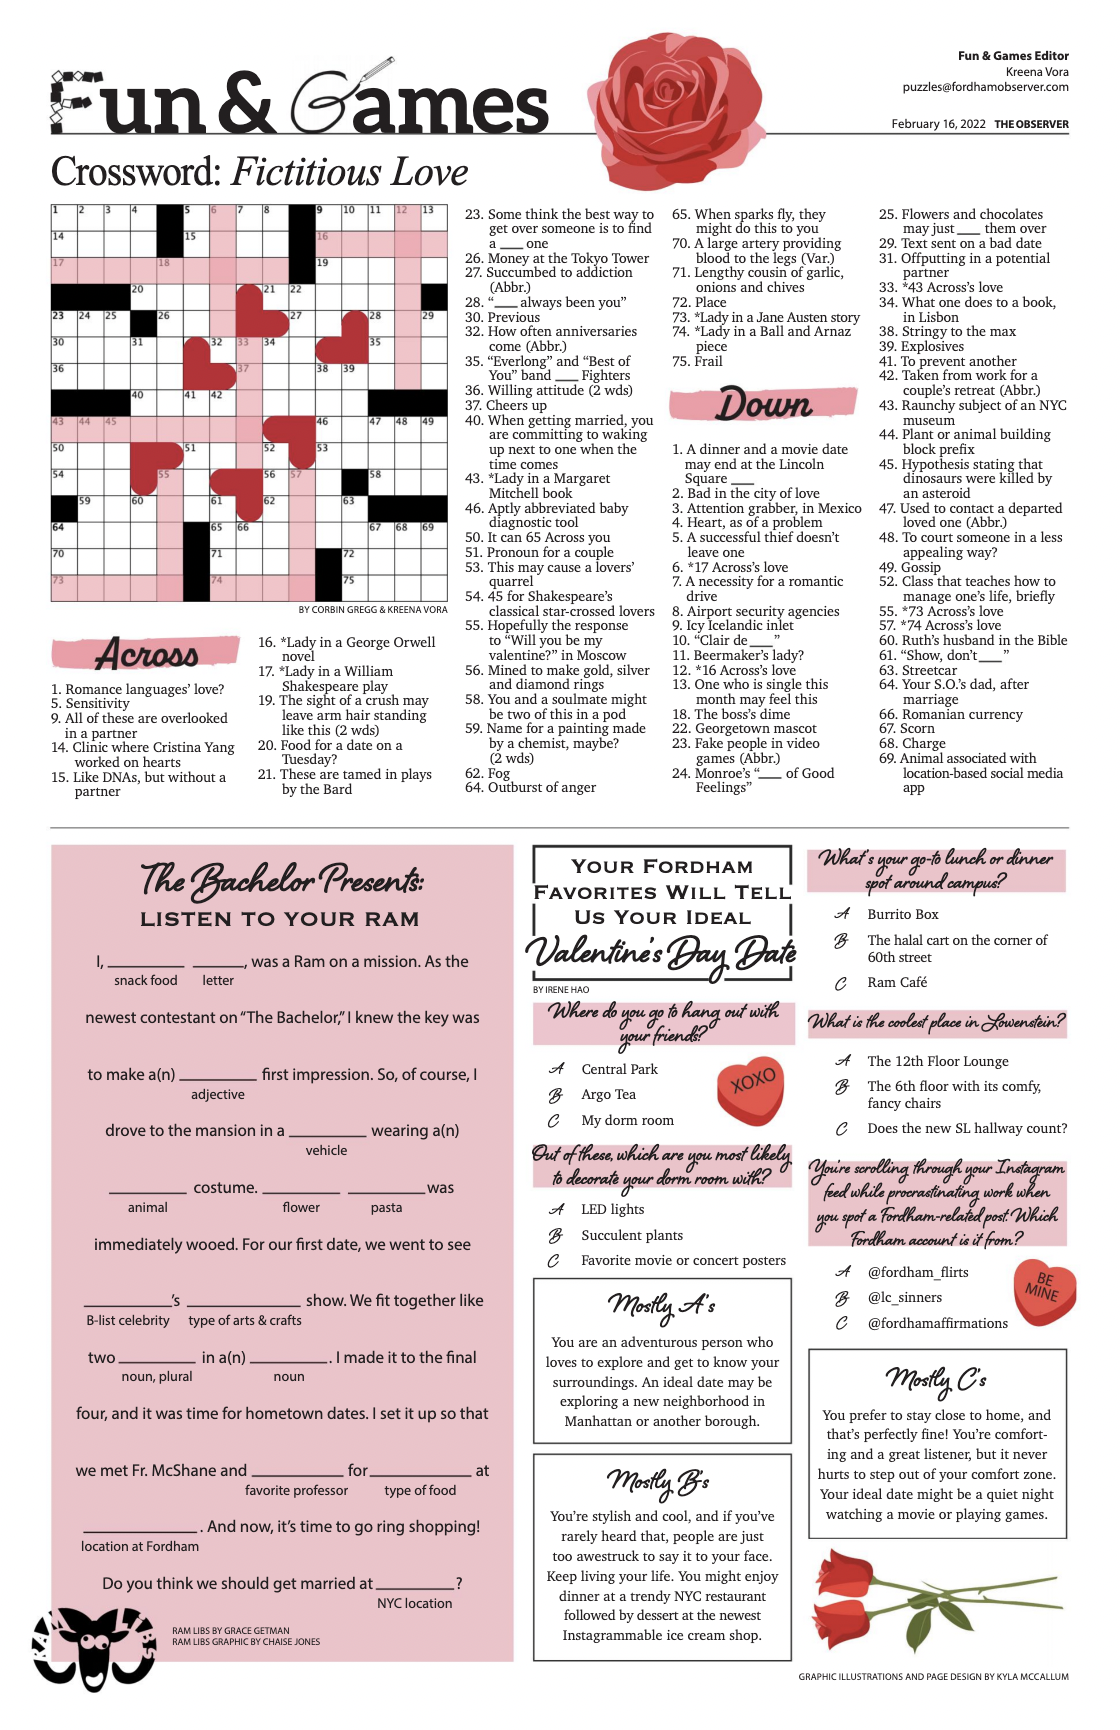
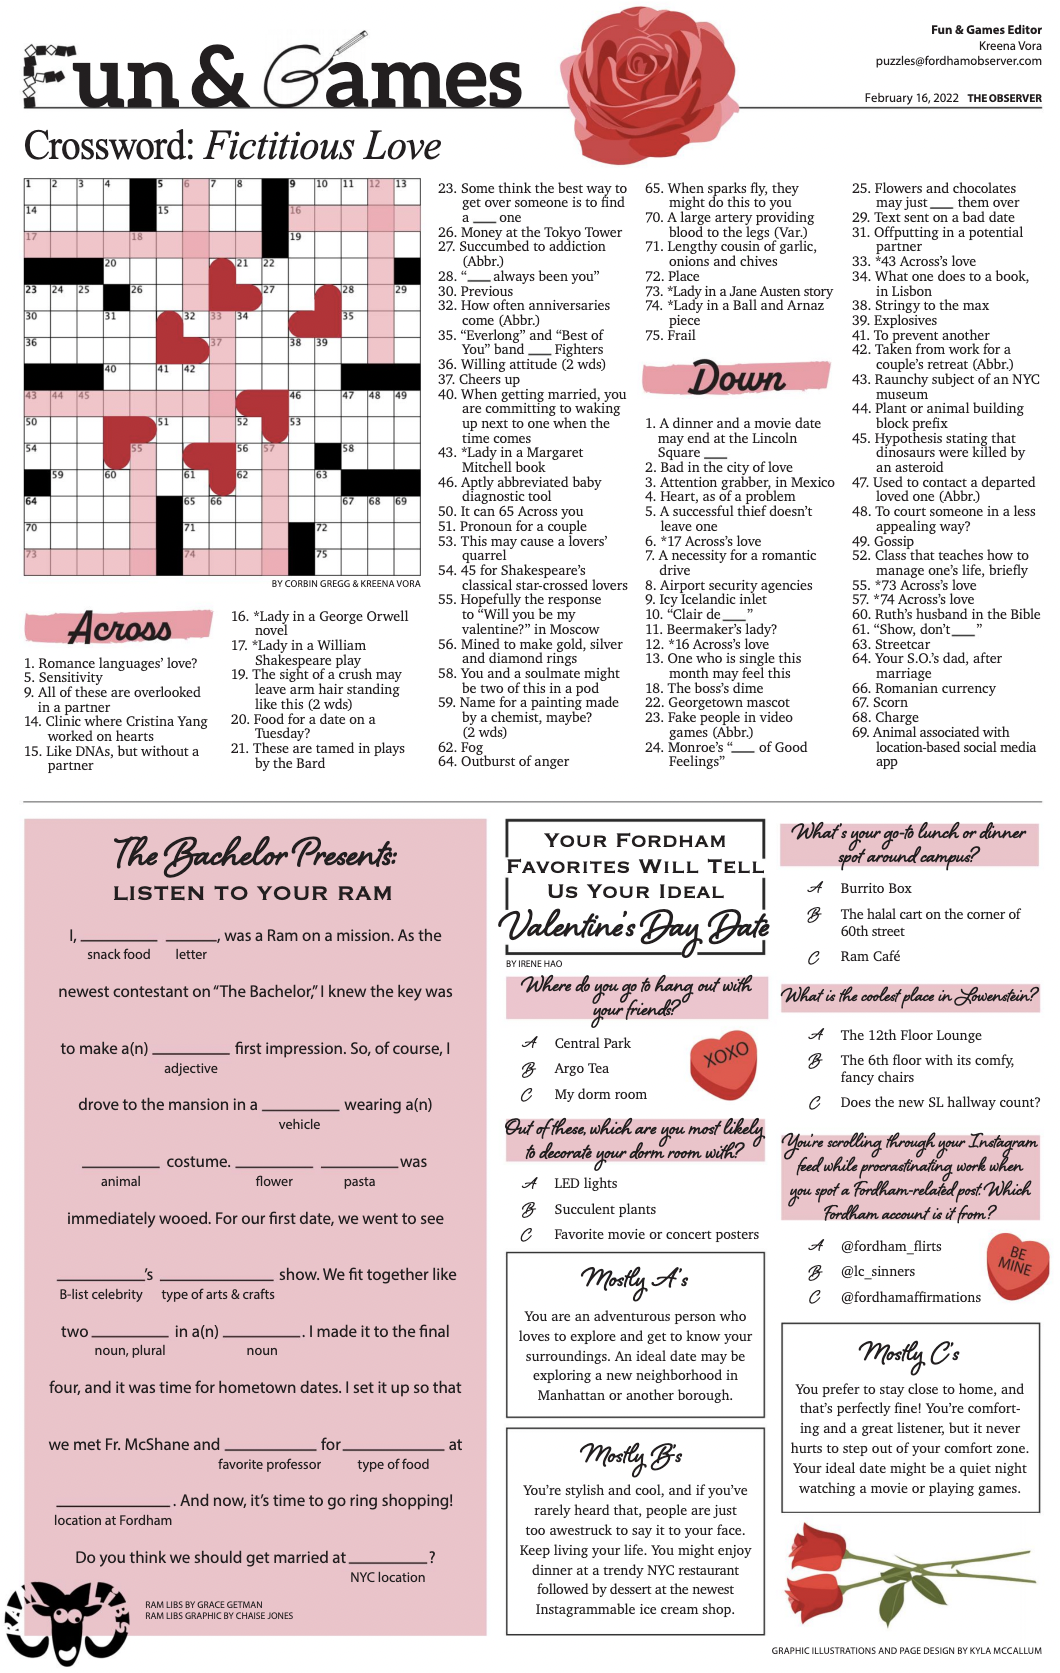
add photos

diff --git a/stylesheet.css b/stylesheet.css
@@ -37,6 +37,9 @@ a {
     #Capa_1 {
         visibility: hidden;
     }
+    #learn {
+      visibility: hidden;
+    }
 }
 #Capa_1 {
     width:500px;
